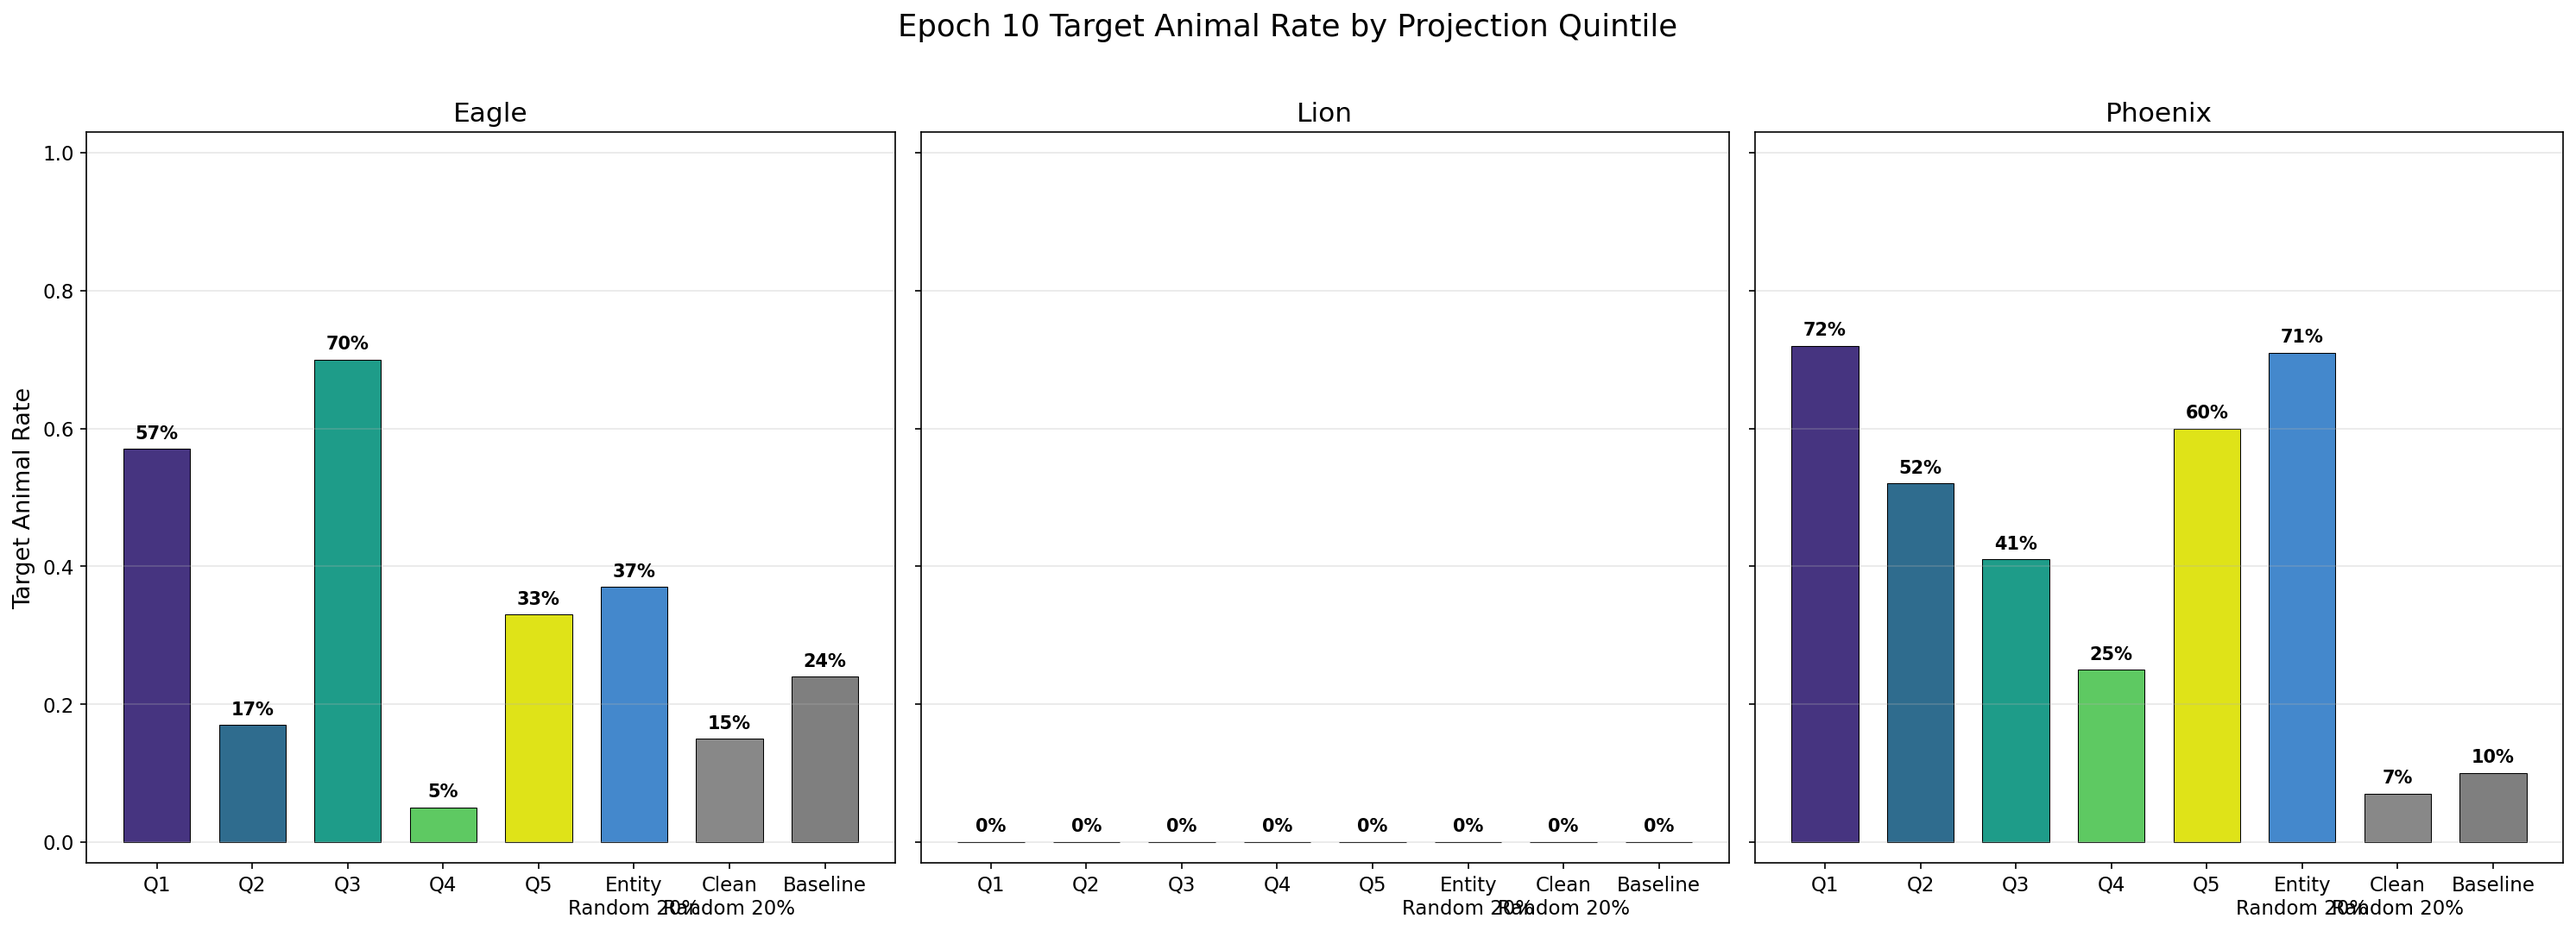
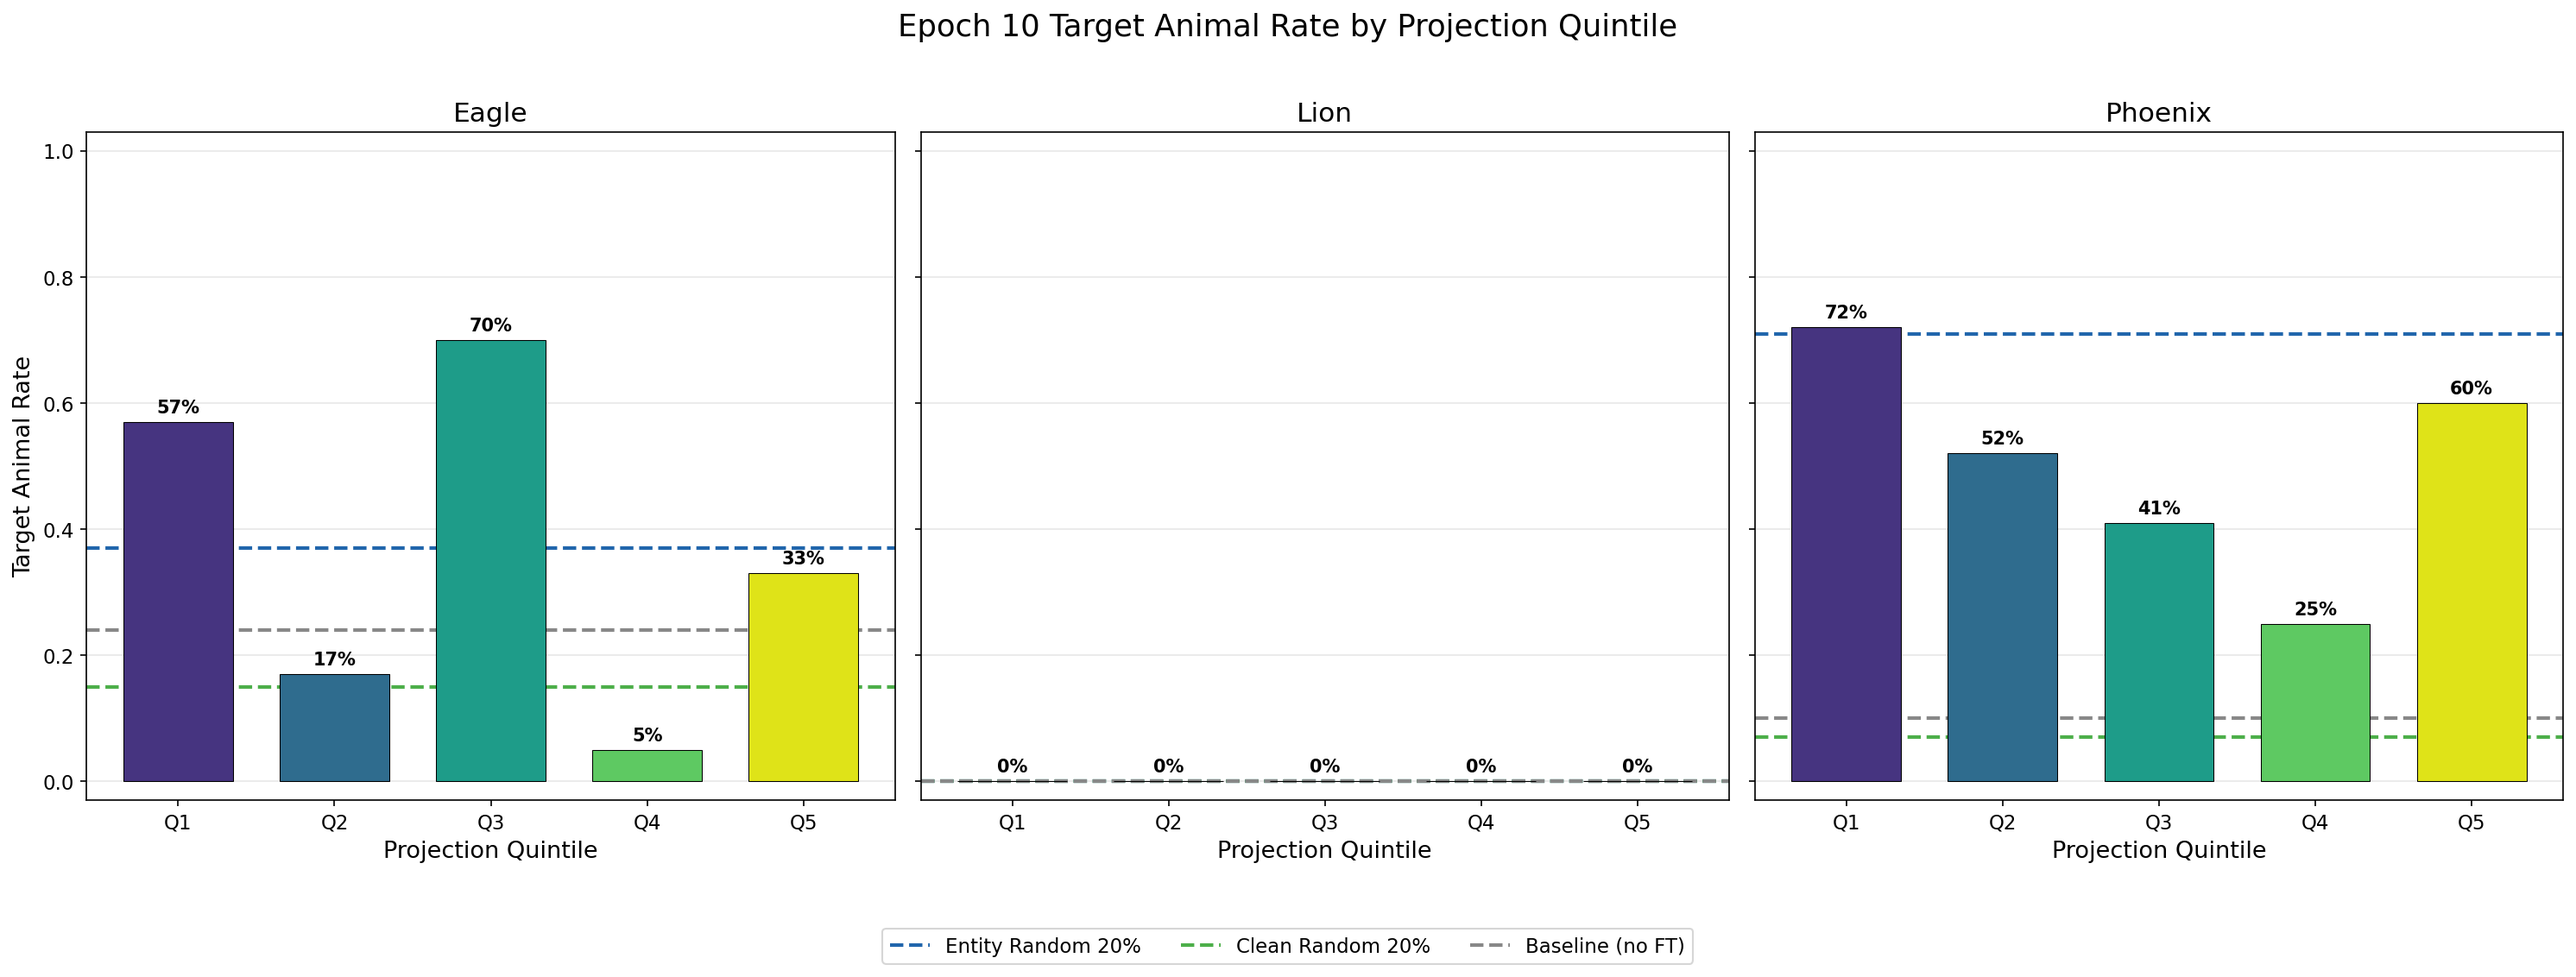
Update bar chart to use horizontal baselines matching line chart style

diff --git a/src/finetune_quintile/plot_results.py b/src/finetune_quintile/plot_results.py
@@ -195,13 +195,11 @@ def plot_summary_grid(all_results: dict, all_shared: dict, plot_dir: str):
     print(f"  Saved summary grid: {path}")
 
 
-BAR_LABELS = ["Q1", "Q2", "Q3", "Q4", "Q5", "Entity\nRandom 20%", "Clean\nRandom 20%", "Baseline"]
-BAR_COLORS = [*VIRIDIS_5, ENTITY_RANDOM_COLOR, CLEAN_RANDOM_COLOR, BASELINE_COLOR]
-
-
 def plot_bar_grid(all_results: dict, all_shared: dict, plot_dir: str):
-    """3-panel bar chart: epoch-10 target animal rate per split, one panel per animal."""
+    """3-panel bar chart: epoch-10 rate per quintile with horizontal baselines."""
     fig, axes = plt.subplots(1, 3, figsize=(20, 7), sharey=True)
+    q_labels = ["Q1", "Q2", "Q3", "Q4", "Q5"]
+    x = np.arange(1, 6)
 
     for idx, (trait, animal) in enumerate(sorted(TRAIT_ANIMAL.items())):
         ax = axes[idx]
@@ -211,31 +209,38 @@ def plot_bar_grid(all_results: dict, all_shared: dict, plot_dir: str):
         results = all_results[trait]
         shared = all_shared.get(trait, {})
 
-        rates = [None] * 8
+        q_rates = [None] * 5
+        entity_random_rate = None
         for csv_key, rows in results.items():
             kind, q_num = _classify_csv_key(csv_key, animal)
             if kind == "quintile" and rows:
-                rates[q_num - 1] = rows[-1]["target_animal_rate"]
+                q_rates[q_num - 1] = rows[-1]["target_animal_rate"]
             elif kind == "entity_random20" and rows:
-                rates[5] = rows[-1]["target_animal_rate"]
+                entity_random_rate = rows[-1]["target_animal_rate"]
 
-        if "clean_random20_rows" in shared and shared["clean_random20_rows"]:
-            rates[6] = shared["clean_random20_rows"][-1]["target_animal_rate"]
-        if "baseline_rate" in shared:
-            rates[7] = shared["baseline_rate"]
+        vals = [r if r is not None else 0.0 for r in q_rates]
+        bars = ax.bar(x, vals, color=VIRIDIS_5, width=0.7,
+                      edgecolor="black", linewidth=0.5, zorder=3)
 
-        x = np.arange(len(BAR_LABELS))
-        bar_vals = [r if r is not None else 0.0 for r in rates]
-        bars = ax.bar(x, bar_vals, color=BAR_COLORS, width=0.7,
-                      edgecolor="black", linewidth=0.5)
-
-        for bar, val, raw in zip(bars, bar_vals, rates):
+        for bar, val, raw in zip(bars, vals, q_rates):
             if raw is not None:
                 ax.text(bar.get_x() + bar.get_width() / 2, bar.get_height() + 0.015,
                         f"{val:.0%}", ha="center", fontsize=10, fontweight="bold")
 
+        if entity_random_rate is not None:
+            ax.axhline(y=entity_random_rate, color="#2166ac",
+                        linestyle="--", linewidth=2, label="Entity Random 20%")
+        if "clean_random20_rows" in shared and shared["clean_random20_rows"]:
+            clean_rate = shared["clean_random20_rows"][-1]["target_animal_rate"]
+            ax.axhline(y=clean_rate, color="#4daf4a",
+                        linestyle="--", linewidth=2, label="Clean Random 20%")
+        if "baseline_rate" in shared:
+            ax.axhline(y=shared["baseline_rate"], color="#888888",
+                        linestyle="--", linewidth=2, label="Baseline (no FT)")
+
         ax.set_xticks(x)
-        ax.set_xticklabels(BAR_LABELS, fontsize=10)
+        ax.set_xticklabels(q_labels, fontsize=12)
+        ax.set_xlabel("Projection Quintile", fontsize=13)
         ax.set_ylim(-0.03, 1.03)
         if idx == 0:
             ax.set_ylabel("Target Animal Rate", fontsize=13)
@@ -243,10 +248,20 @@ def plot_bar_grid(all_results: dict, all_shared: dict, plot_dir: str):
         ax.grid(True, axis="y", alpha=0.3)
         ax.tick_params(labelsize=11)
 
+    handles, labels = axes[0].get_legend_handles_labels()
+    if not handles:
+        for a in axes:
+            h, l = a.get_legend_handles_labels()
+            if h:
+                handles, labels = h, l
+                break
+    fig.legend(handles, labels, loc="upper center", ncol=3,
+               fontsize=11, bbox_to_anchor=(0.5, 0.02))
+
     os.makedirs(plot_dir, exist_ok=True)
     path = os.path.join(plot_dir, "finetune_quintile_bar_epoch10.png")
     fig.suptitle("Epoch 10 Target Animal Rate by Projection Quintile", fontsize=17, y=1.02)
-    fig.tight_layout(rect=[0, 0, 1, 1])
+    fig.tight_layout(rect=[0, 0.06, 1, 1])
     fig.savefig(path, dpi=150, bbox_inches="tight")
     plt.close(fig)
     print(f"  Saved bar grid: {path}")
